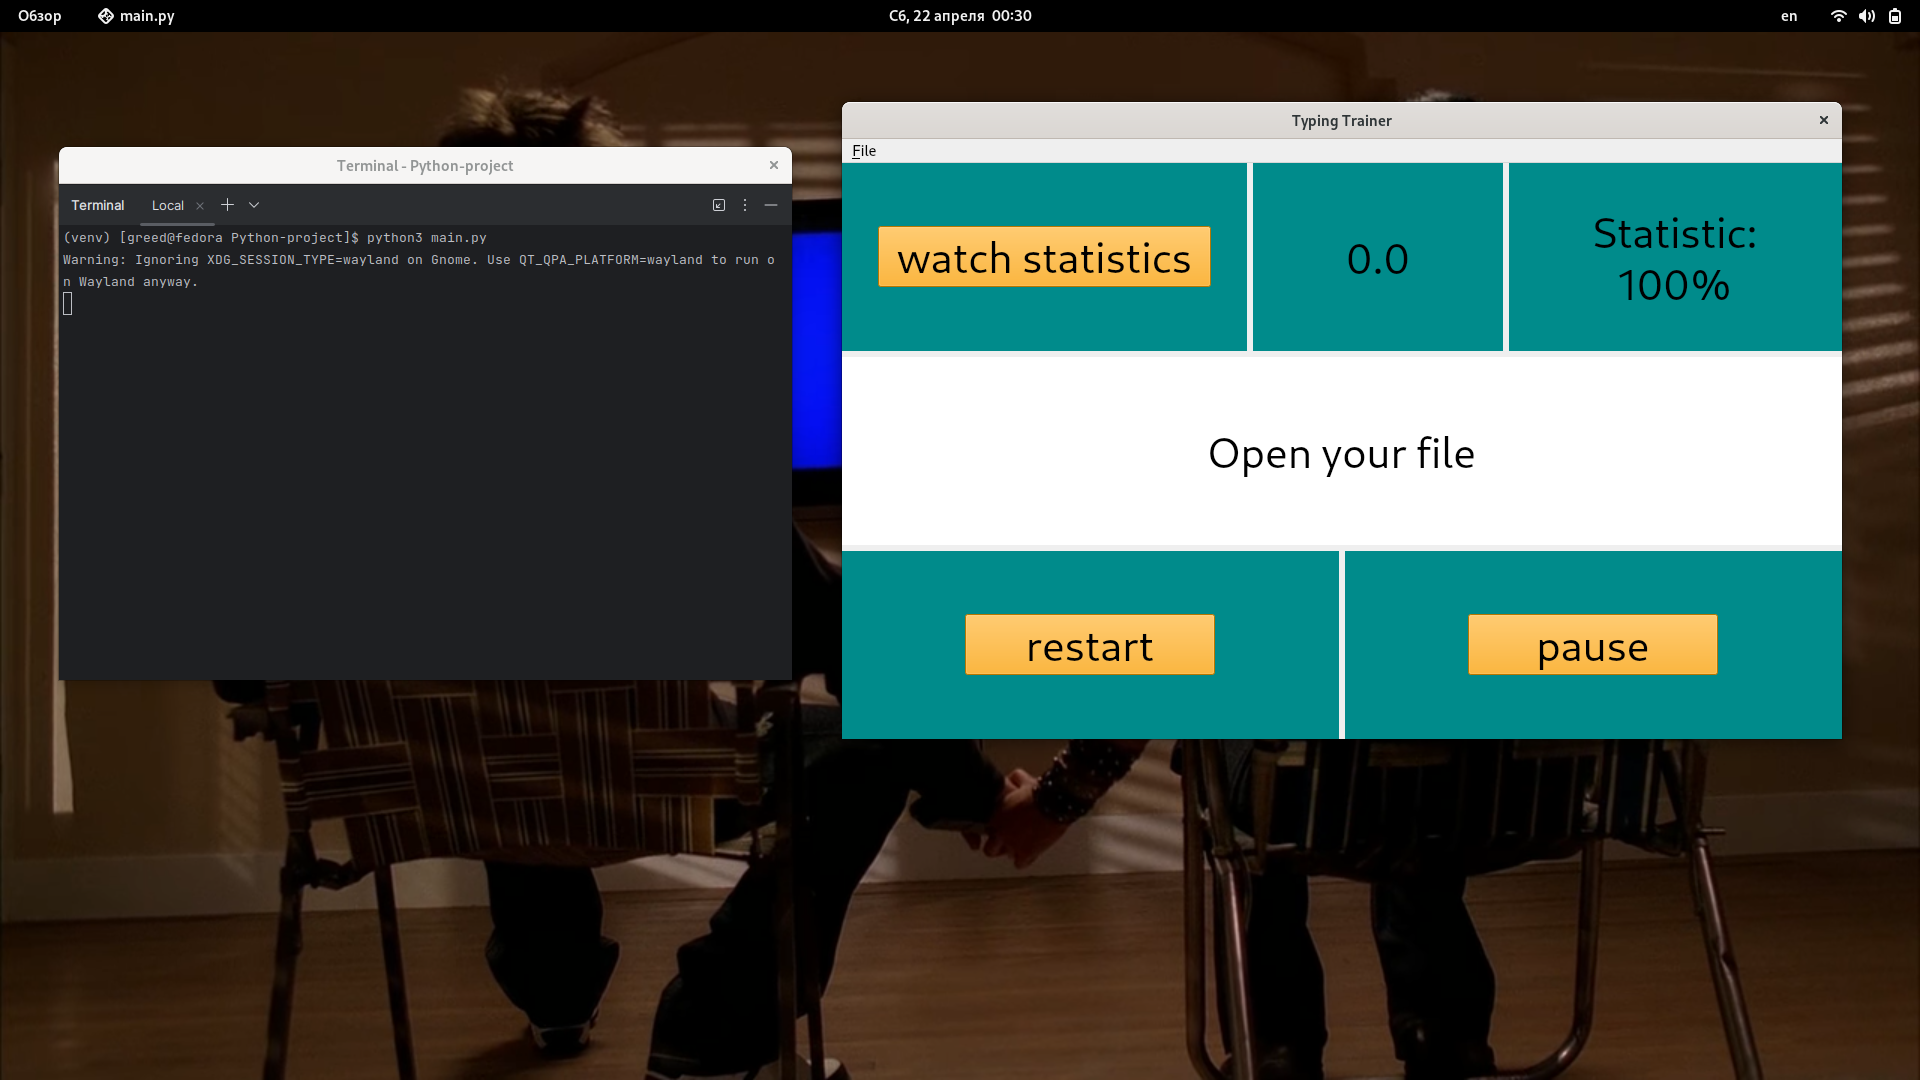
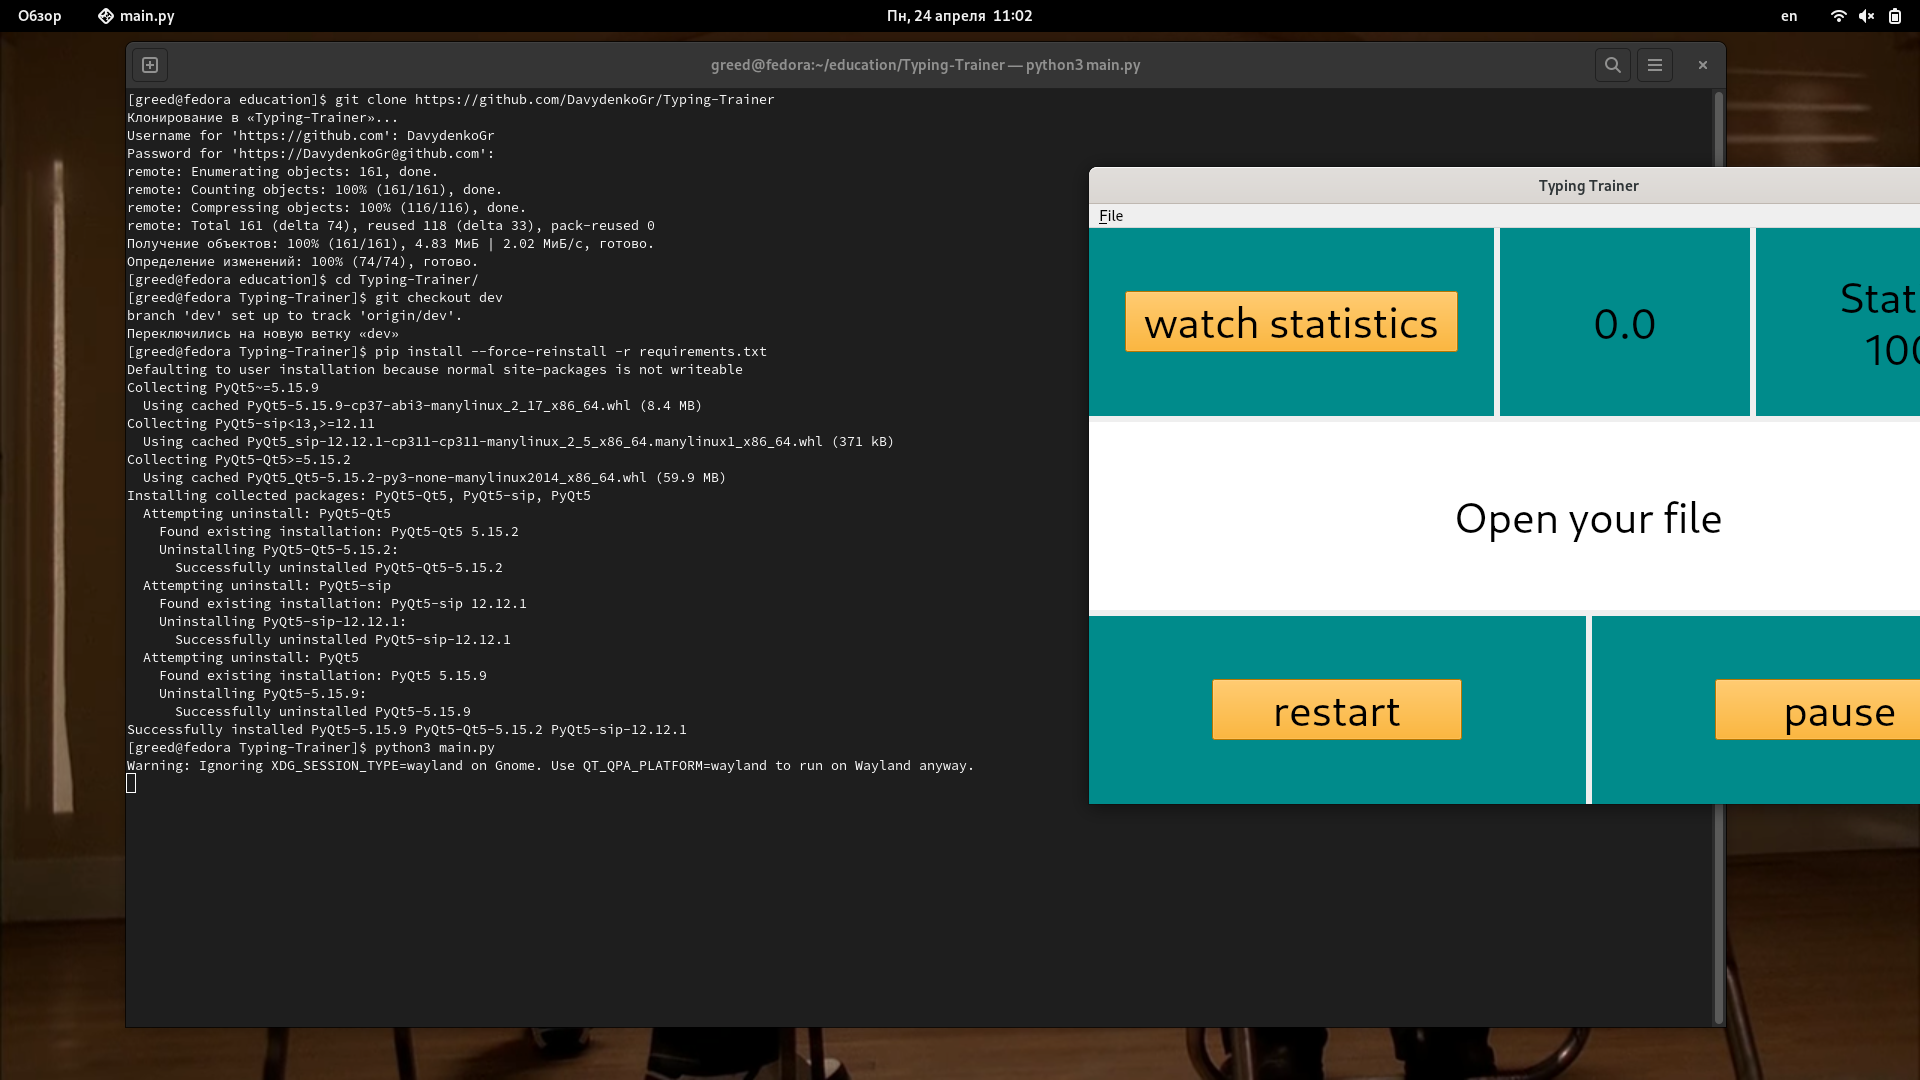
corrected README.md

diff --git a/README.md b/README.md
@@ -8,17 +8,20 @@ Typing Trainer is a printing simulator that allows the user to improve his skill
 
 ### Start application
 Clone project using https://github.com/DavydenkoGr/Typing-Trainer  
-Run command
+Run commands
 
-- python{your_python_version} main.py  
+```
+pip install --force-reinstall -r requirements.txt  
+python3 main.py  
+```
 
 Open lessons from lessons folder or make your own (notice, your lesson should match specific requirements)
 ### Usage example
 
-![image](resources/usage-examples/command-example.png)  
-![image](resources/usage-examples/open-example.png)  
-![image](resources/usage-examples/lesson-example.png)  
-![image](resources/usage-examples/statistics-example.png)
+![commands](resources/usage-examples/command-example.png)  
+![open lesson](resources/usage-examples/open-example.png)  
+![study](resources/usage-examples/lesson-example.png)  
+![watch statistics](resources/usage-examples/statistics-example.png)
 
 ### Authors:
 - Davydenko Grigorii
